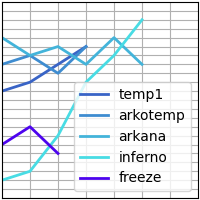
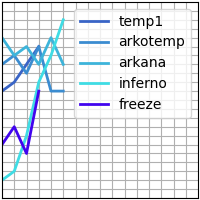
modified graph

Changed region(s): [[0.0, 0.0, 0.96, 0.99]]

diff --git a/graph.py b/graph.py
@@ -20,37 +20,27 @@ def make_graph(data, headers, w=300, h=300):
     for i in range(len(data)):
         x = np.arange(0, len(data[i]), 1)
         y = np.array(data[i])
-        print(x, y)
 
         ax.plot(x, y, linewidth=2.0, color=rgbtohex(r, g, b))
         b += 10
         b %= 256
         g += 40
         g %= 256
-        r += 5
+        r += 2
         r %= 256
 
     ax.legend(headers)
 
-
-    # color = plt.rainbow(np.linspace(0, 1, n))
-    # for i, c in zip(range(n), color):
-    #     ax.plot(x, y,c=c)
-
-    # color=iter(cm.rainbow(np.linspace(0,1,n)))
-    # c=next(color)
-    # plt.plot(x,y,c=c)
-
-
     ax.set(
-        xlim=(0, mx_len + 1), xticks=np.arange(1, mx_len + 1),
+        xlim=(0, mx_len + 10), xticks=np.arange(1, mx_len + 10),
         ylim=(mn_y - 2, mx_y + 2), yticks=np.arange(mn_y - 2, mx_y + 2))
 
     plt.savefig('graph.png')
 
 
-data = [
-    [0, 1, 3, 5], [3, 4, 2, 5], [6, 4, 5, 3, 6, 3],
-    [-10, -9, -5, 1, 4, 8], [-6, -4, -7]]
-headers = ["temp1", "arkotemp", "arkana", "inferno", "freeze"]
-make_graph(data, headers)
+if __name__ == "__main__":
+    data = [
+        [0, 1, 3, 5], [3, 4, 2, 5, 0, 0], [6, 4, 5, 3, 6, 3],
+        [-10, -9, -5, 1, 4, 8], [-6, -4, -7, 0]]
+    headers = ["temp1", "arkotemp", "arkana", "inferno", "freeze"]
+    make_graph(data, headers)
